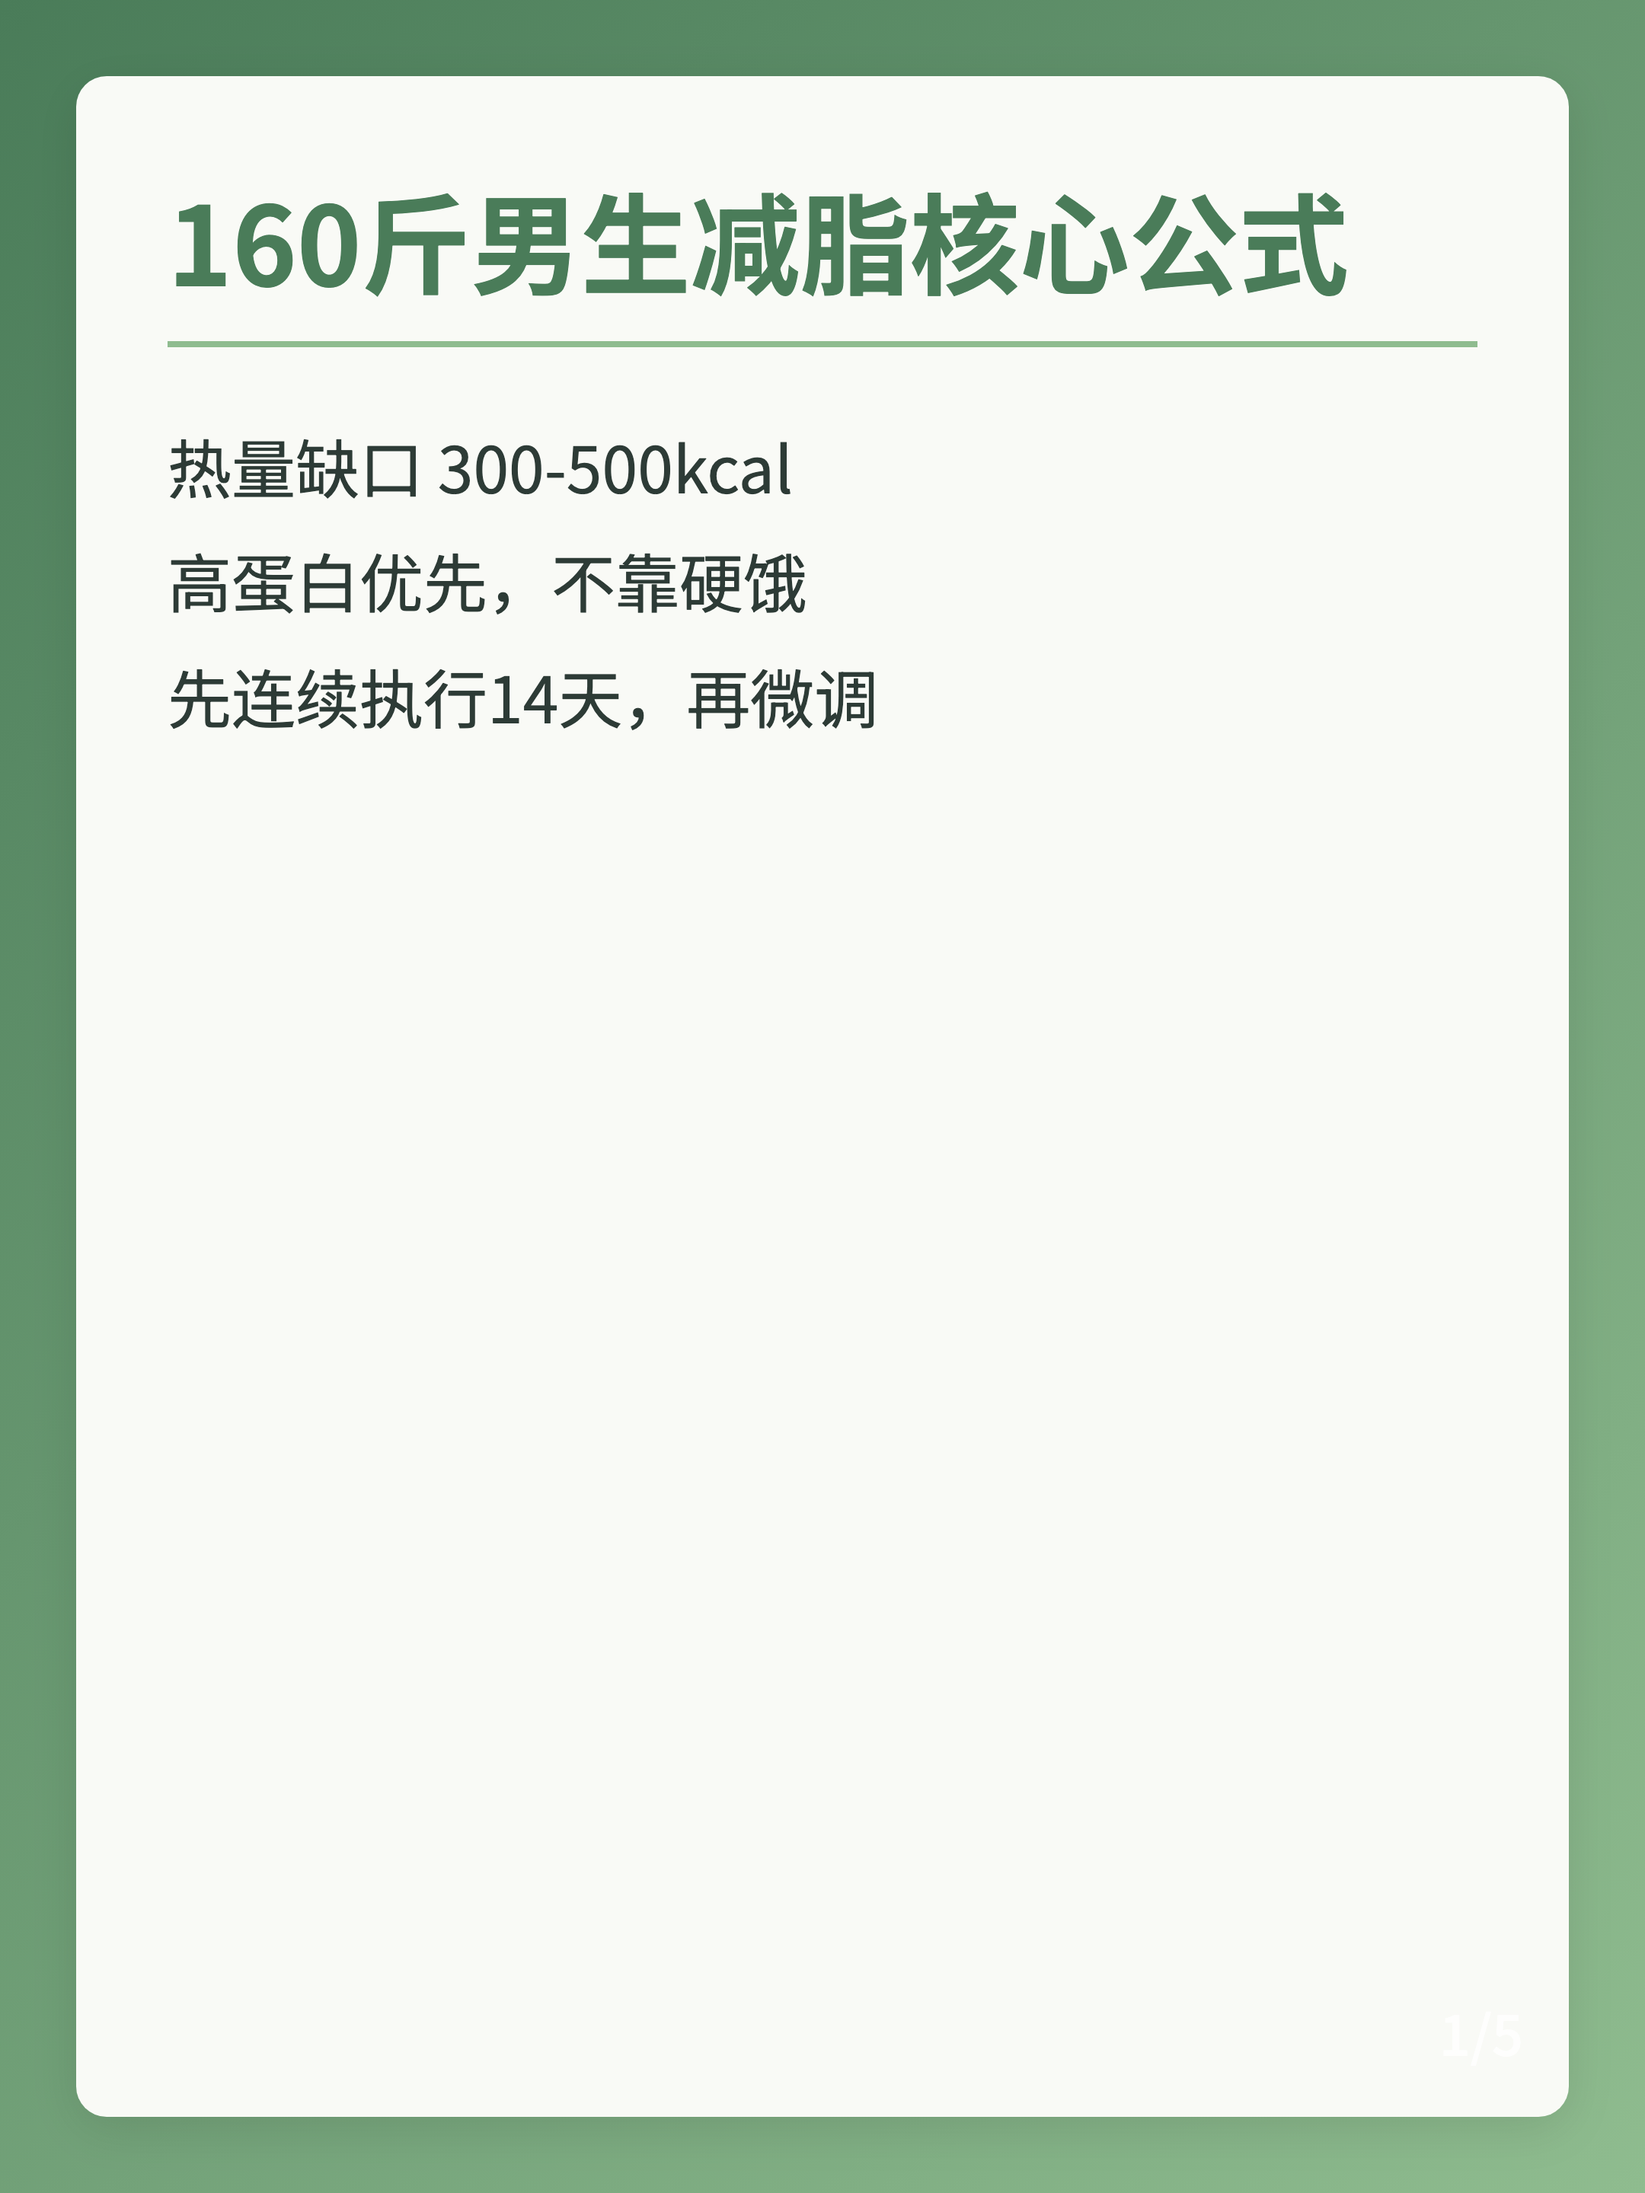
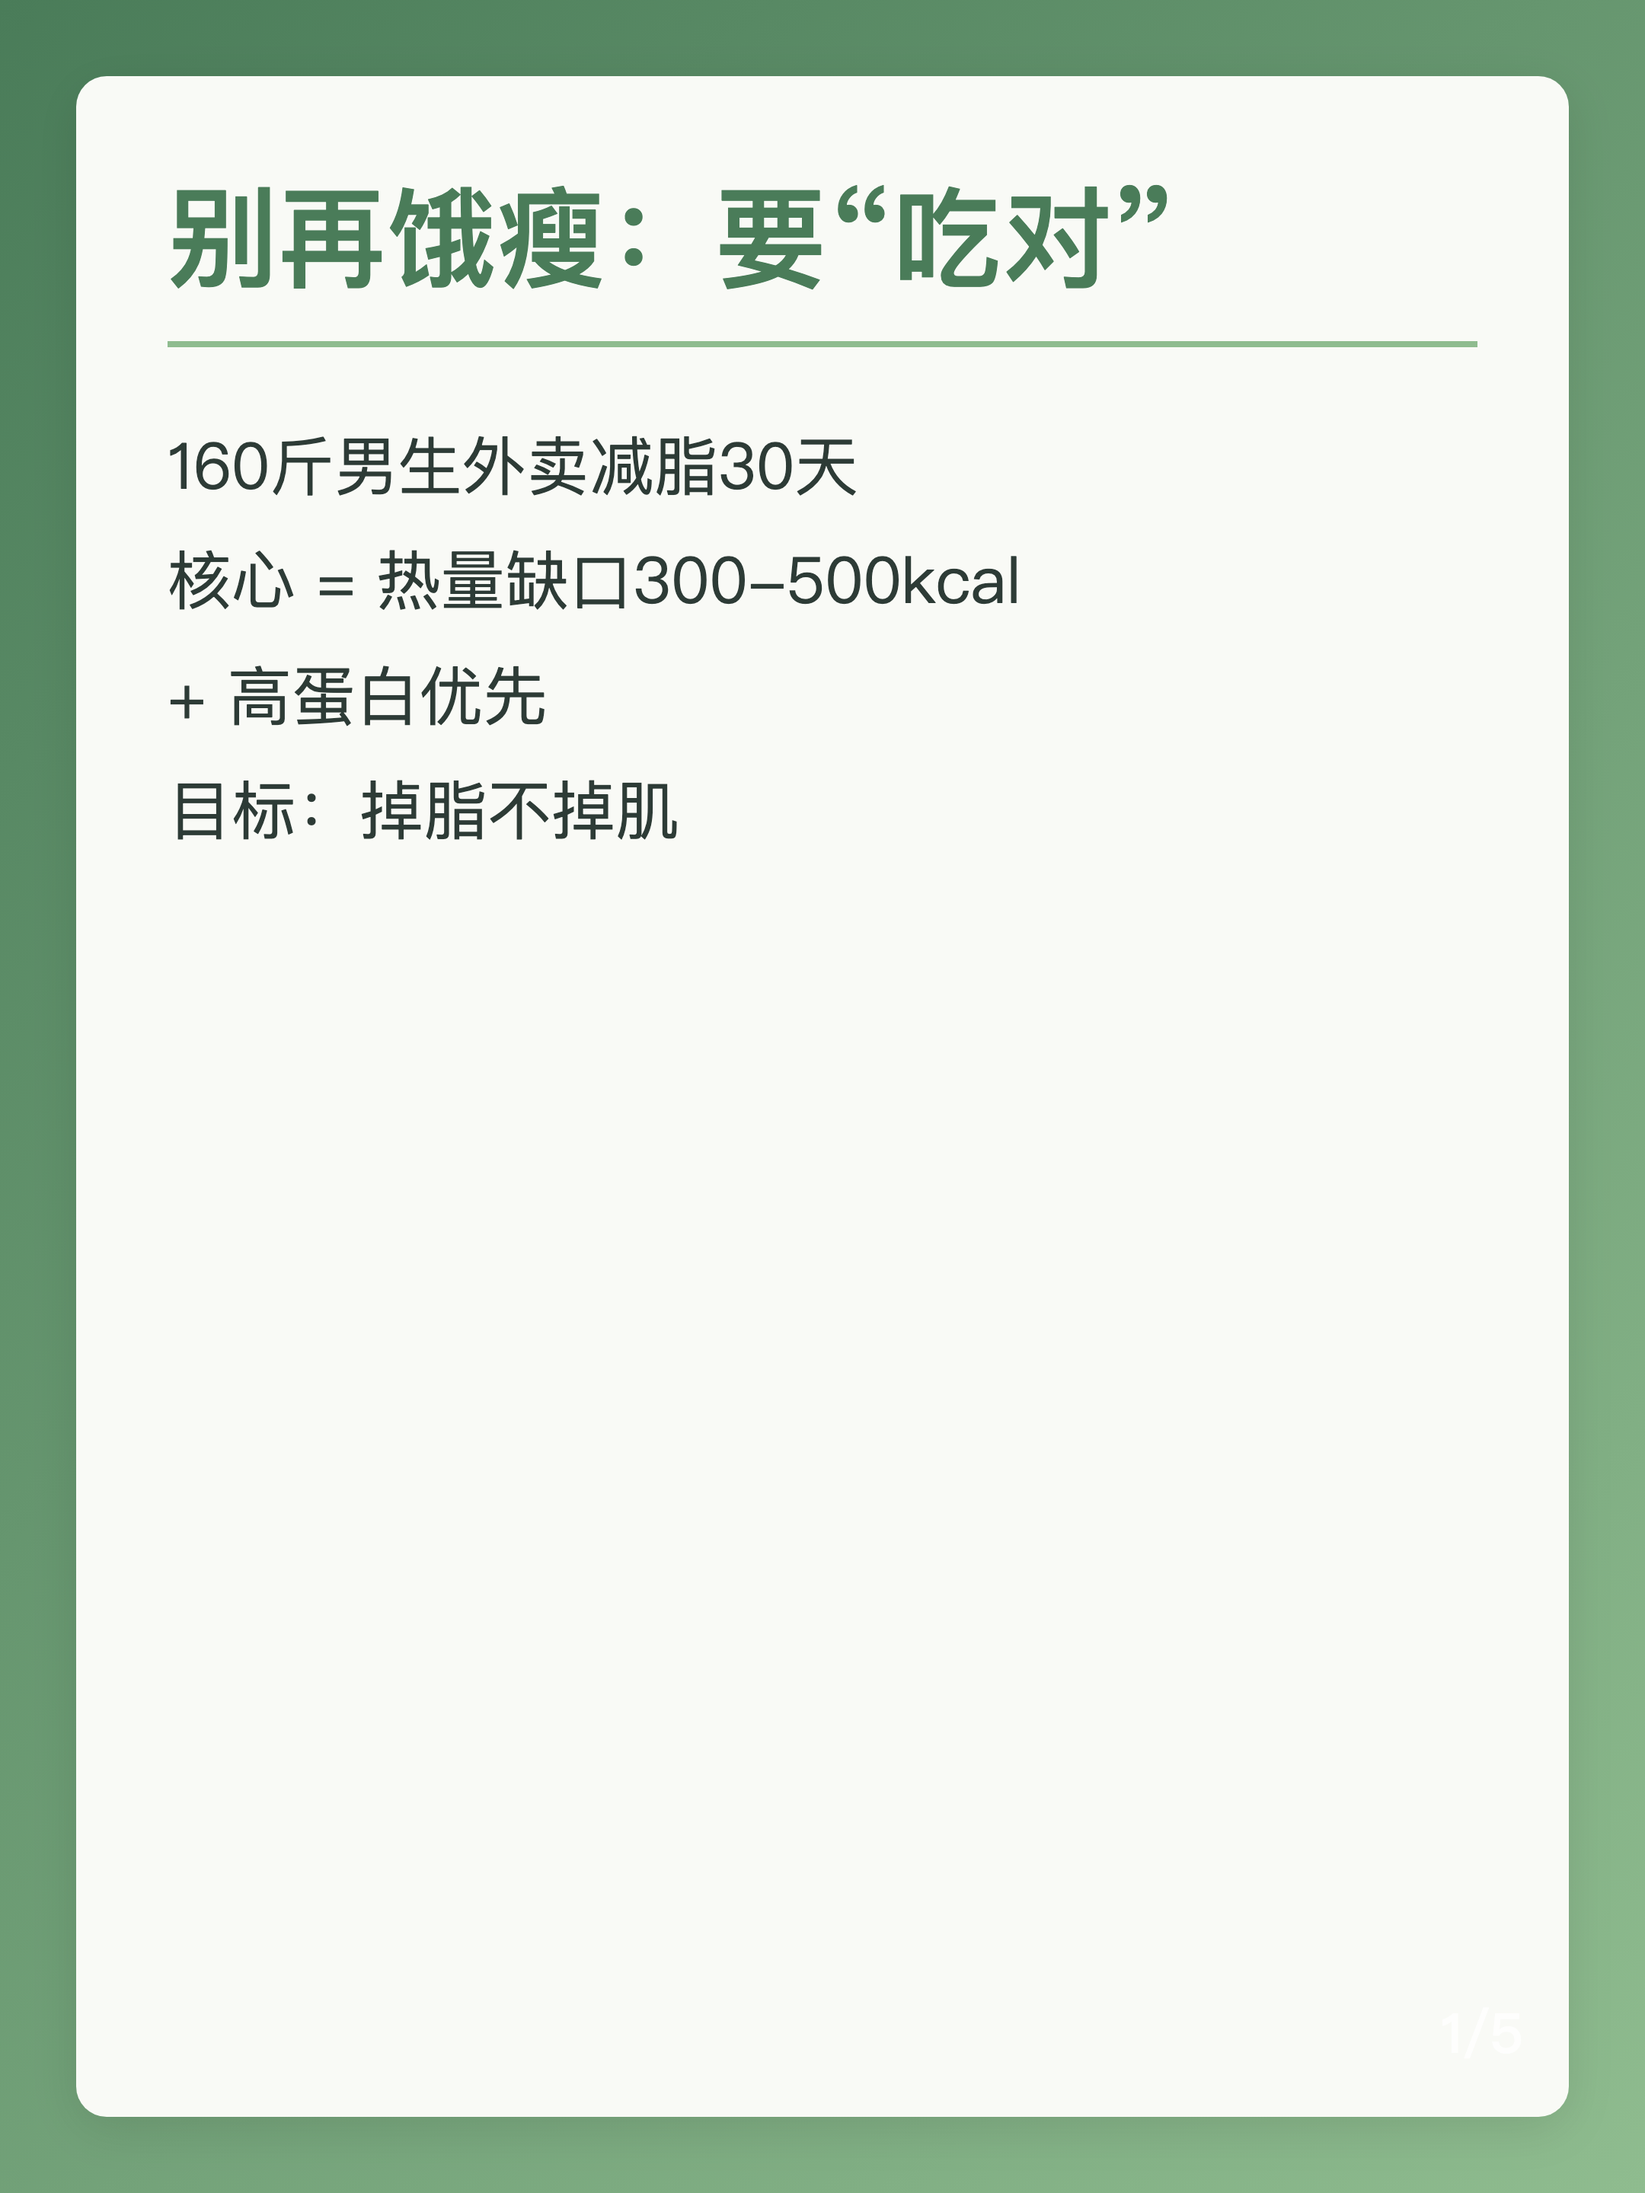
vault backup: 2026-03-03 15:13:26

Changed region(s): [[0.0931, 0.1875, 0.6204, 0.4062], [0.0931, 0.0625, 0.8375, 0.1562], [0.4032, 0.3125, 0.5273, 0.3438]]

diff --git a/小红书/草稿箱/2026-03-03-外卖减脂30天.md b/小红书/草稿箱/2026-03-03-外卖减脂30天.md
@@ -1,8 +1,8 @@
 ---
 emoji: "🥗"
-title: "160斤男生外卖减脂30天"
-subtitle: "不掉肌·三餐照抄版"
-xhs_title: "160斤男生外卖减脂30天照抄版"
+title: "外卖减脂30天"
+subtitle: "160斤男生不掉肌"
+xhs_title: "160斤外卖减脂30天不掉肌"
 xhs_tags:
   - 外卖减脂
   - 男生健身
@@ -30,71 +30,72 @@ source_notes: []
 > [!info]- 🔍 备注（仅审稿用，不会发布）
 > | 来源 | 说明 |
 > |---|---|
-> | 用户提供文案 | 按原文信息重组为 5 页卡片并使用 botanical 主题渲染 |
+> | 用户提供文案 | 在不改核心信息的前提下，重写为更适合卡片渲染与阅读节奏的版本 |
 >
 > **历史高频标签参考**：男生健身(1次)、体脂率(1次)
 
 ## 发布文案
 
 160斤男生、经常点外卖，也能30天减脂不掉肌。
-核心不是“饿”，而是“吃对”：热量缺口300-500kcal + 高蛋白优先。
+这套方法不靠“硬饿”，核心就两件事：热量缺口300-500kcal + 高蛋白优先。
 
-按80kg（160斤）参考：蛋白质每天128-160g，脂肪48-64g，碳水放在训练前后优先吃。
-先连续执行14天，再根据体重和腰围微调，不要天天改计划。
+按80kg（160斤）参考：蛋白质128-160g/天，脂肪48-64g/天，碳水放在训练前后优先吃。
+先连续执行14天，再根据体重7日均线和腰围微调，不要天天改计划。
 
-🥚 早餐（必须吃，打开代谢）
-2个水煮蛋 + 1瓶牛奶（全脂/脱脂都行）。
+三餐照抄模板：
+早餐：2个水煮蛋 + 1瓶牛奶，先把饱腹感拉起来。
+午餐：鸡胸/牛肉/瘦猪肉 + 双份蔬菜 + 半份主食，吃到7-8分饱。
+晚餐：少主食 + 蛋白质 + 蔬菜，奶茶、酒精、夜宵尽量停掉。
 
-🥩 午餐（蛋白主场）
-鸡胸/牛肉/猪瘦肉为主，配双份蔬菜 + 半碗米饭，少油少酱汁。
-
-🌙 晚餐（成败分水岭）
-少量主食 + 蛋白质 + 蔬菜。
-零食、奶茶、酒精、夜宵尽量停掉。
-
-💧 全天饮水至少2L，训练日可到2.5L。
-🍱 外卖万能点单公式：高蛋白主菜1份 + 蔬菜2份 + 主食半份 + 0糖饮料。
-
+外卖万能点单公式：高蛋白主菜1份 + 蔬菜2份 + 主食半份 + 0糖饮料。
 周末大餐也能吃：先蛋白，再蔬菜，最后主食；第二天直接恢复正常减脂餐，不要补偿性断食。
-想要我下一条发「外卖平台20个高蛋白关键词（省钱版+标准版）」和「一周照抄菜单」，先关注我，评论区打：外卖清单。
+
+想要我下一条发「外卖平台20个高蛋白关键词（省钱版+标准版）」和「一周照抄菜单」，评论区打：外卖清单。
 
 ---
 
-# 160斤男生减脂核心公式
+# 别再饿瘦：要“吃对”
 
-热量缺口 300-500kcal
-高蛋白优先，不靠硬饿
-先连续执行14天，再微调
+160斤男生外卖减脂30天
+核心 = 热量缺口300-500kcal
++ 高蛋白优先
+目标：掉脂不掉肌
 
 ---
 
-# 三餐照抄（80kg参考）
+# 80kg营养目标（照这个区间）
 
-早餐：2个水煮蛋 + 1瓶牛奶
-午餐：瘦肉 + 双份蔬菜 + 半碗米饭
+蛋白质：128-160g/天
+脂肪：48-64g/天
+碳水：训练前后优先吃
+饮水：2L起，训练日2.5L
+先执行14天再微调
+
+---
+
+# 三餐照抄模板（外卖版）
+
+早餐：2个水煮蛋 + 牛奶1瓶
+午餐：瘦肉主菜 + 双份蔬菜 + 半份主食
 晚餐：少主食 + 蛋白质 + 蔬菜
+每餐吃到7-8分饱
 
 ---
 
-# 外卖万能点单公式
+# 点单公式 + 避坑清单
 
-高蛋白主菜 1 份
-蔬菜 2 份
-主食半份
-0糖饮料
-
----
-
-# 晚餐控住体脂就会降
-
-零食、奶茶、酒精、夜宵尽量停
-全天饮水至少2L，训练日2.5L
-先喝水再吃饭，控食欲很有效
+公式：高蛋白主菜1份
++ 蔬菜2份 + 主食半份 + 0糖饮料
+避坑1：重油重酱
+避坑2：奶茶酒精
+避坑3：夜宵零食
 
 ---
 
-# 周末大餐不反弹技巧
+# 周末大餐不反弹 SOP
 
-先蛋白，再蔬菜，最后主食
+顺序：先蛋白 → 再蔬菜 → 最后主食
 第二天直接恢复正常减脂餐
-评论区打「外卖清单」领关键词和菜单
+不要补偿性断食
+连续做满30天
+评论“外卖清单”领关键词+菜单

diff --git a/小红书/草稿箱/.tmp-2026-03-03-外卖减脂30天-render.md b/小红书/草稿箱/.tmp-2026-03-03-外卖减脂30天-render.md
@@ -1,0 +1,51 @@
+---
+emoji: "🥗"
+title: "外卖减脂30天"
+subtitle: "160斤男生不掉肌"
+---
+
+# 别再饿瘦：要“吃对”
+
+160斤男生外卖减脂30天
+核心 = 热量缺口300-500kcal
++ 高蛋白优先
+目标：掉脂不掉肌
+
+---
+
+# 80kg营养目标（照这个区间）
+
+蛋白质：128-160g/天
+脂肪：48-64g/天
+碳水：训练前后优先吃
+饮水：2L起，训练日2.5L
+先执行14天再微调
+
+---
+
+# 三餐照抄模板（外卖版）
+
+早餐：2个水煮蛋 + 牛奶1瓶
+午餐：瘦肉主菜 + 双份蔬菜 + 半份主食
+晚餐：少主食 + 蛋白质 + 蔬菜
+每餐吃到7-8分饱
+
+---
+
+# 点单公式 + 避坑清单
+
+公式：高蛋白主菜1份
++ 蔬菜2份 + 主食半份 + 0糖饮料
+避坑1：重油重酱
+避坑2：奶茶酒精
+避坑3：夜宵零食
+
+---
+
+# 周末大餐不反弹 SOP
+
+顺序：先蛋白 → 再蔬菜 → 最后主食
+第二天直接恢复正常减脂餐
+不要补偿性断食
+连续做满30天
+评论“外卖清单”领关键词+菜单
